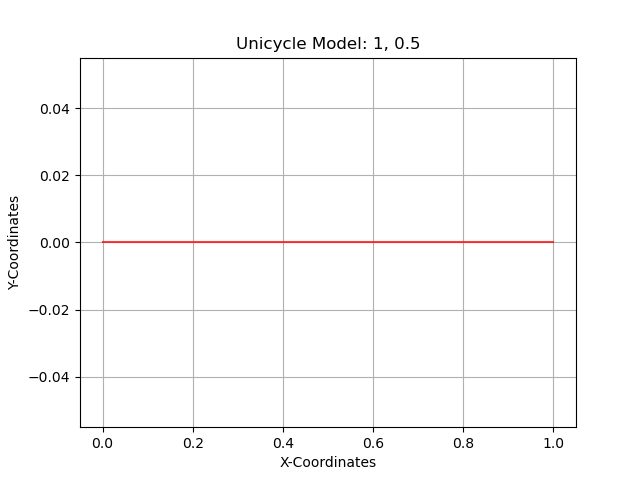
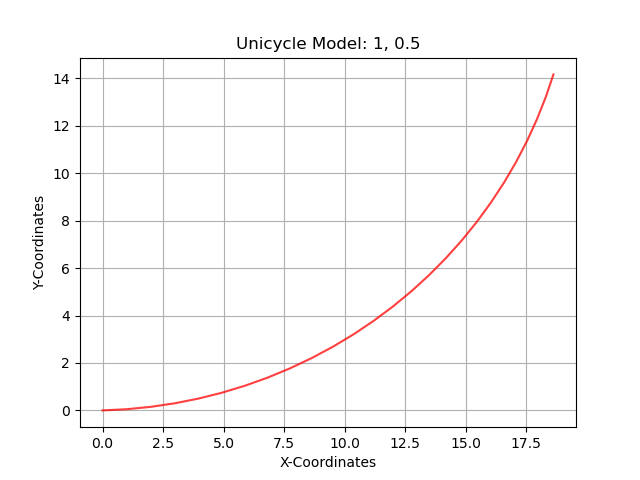
week1 corrected code

diff --git a/week1/unicycle.py b/week1/unicycle.py
@@ -1,13 +1,4 @@
-"""Week I Assignment
-Simulate the trajectory of a robot approximated using a unicycle model given the
-following start states, dt, velocity commands and timesteps
-State = (x, y, theta);
-Velocity = (v, w)
-1. Start=(0, 0, 0); dt=0.1; vel=(1, 0.5); timesteps: 25
-2. Start=(0, 0, 1.57); dt=0.2; vel=(0.5, 1); timesteps: 10
-3. Start(0, 0, 0.77); dt=0.05; vel=(5, 4); timestep: 50
-Upload the completed python file and the figures of the three sub parts in classroom
-"""
+
 import numpy as np
 import matplotlib.pyplot as plt
 
@@ -23,34 +14,16 @@ class Unicycle:
         self.y_points = [self.y]
 
     def step(self, v: float, w: float, n: int):
-        """
-        Write the Kinematics model here
-        Expectation:
-            1. Given v, w and the current state self.x, self.y, self.theta
-                and control commands (v, w) for n timesteps, i.e. n * dt seconds,
-                return the final pose (x, y, theta) after this time.
-            2. Append all intermediate points into the self.x_points, self.y_points list
-                for plotting the trajectory.
-        Args:
-            v (float): linear velocity
-            w (float): angular velocity
-            n (int)  : timesteps
-        Return:
-            x, y, theta (float): final pose
-        """
-        theta = self.theta
-        cost = np.cos(theta)
-        sint = np.sin(theta)
-
-        x = v*cost
-        y = v*sint
-
-        self.x_points.append(x)
-        self.y_points.append(y)
-
+        for _ in range(n):  
+            self.theta += w*(self.dt) 
+            self.x += v*np.cos(self.theta)
+            self.y += v*np.sin(self.theta)
+            self.x_points.append(self.x)
+            self.y_points.append(self.y)
+      
         self.plot(v, w)
         
-        return x , y, theta
+        #return x , y, theta
  
     def plot(self, v: float, w: float):
         """Function that plots the intermeditate trajectory of the Robot"""
@@ -59,12 +32,8 @@ class Unicycle:
         plt.ylabel("Y-Coordinates")
         plt.plot(self.x_points, self.y_points, color="red", alpha=0.75)
         plt.grid()
-
-        # If you want to view the plot uncomment plt.show() and comment out plt.savefig()
         plt.show()
-        #plt.savefig()
-        # If you want to save the file, uncomment plt.savefig() and comment out plt.show()
-        # plt.savefig(f"Unicycle_{v}_{w}.png")
+       
 
 if __name__ == "__main__":
     print("Unicycle Model Assignment")
